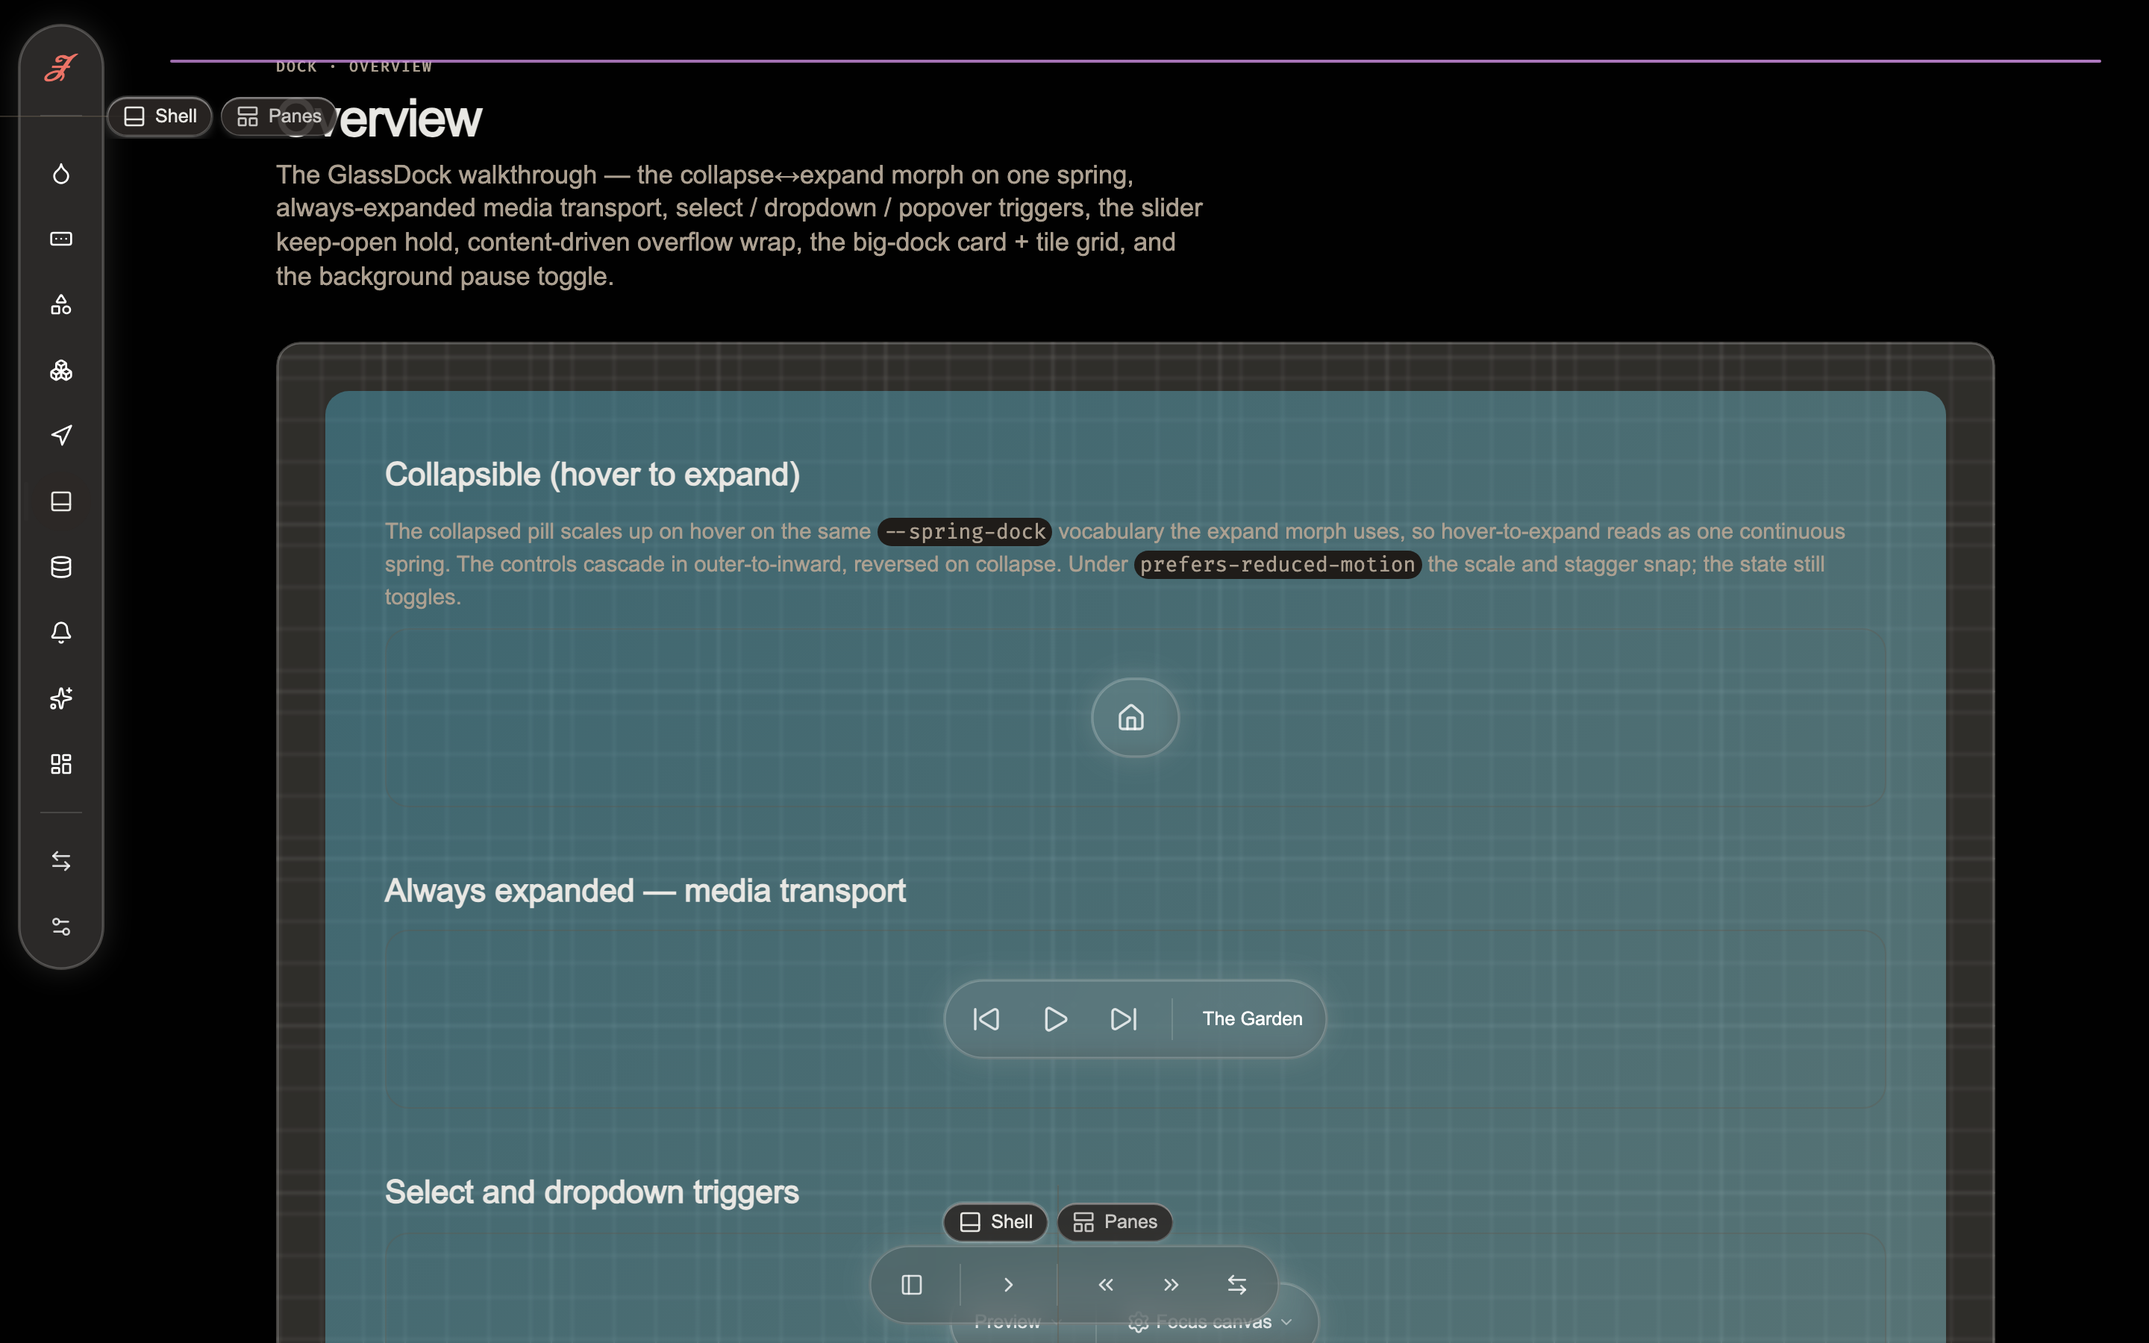
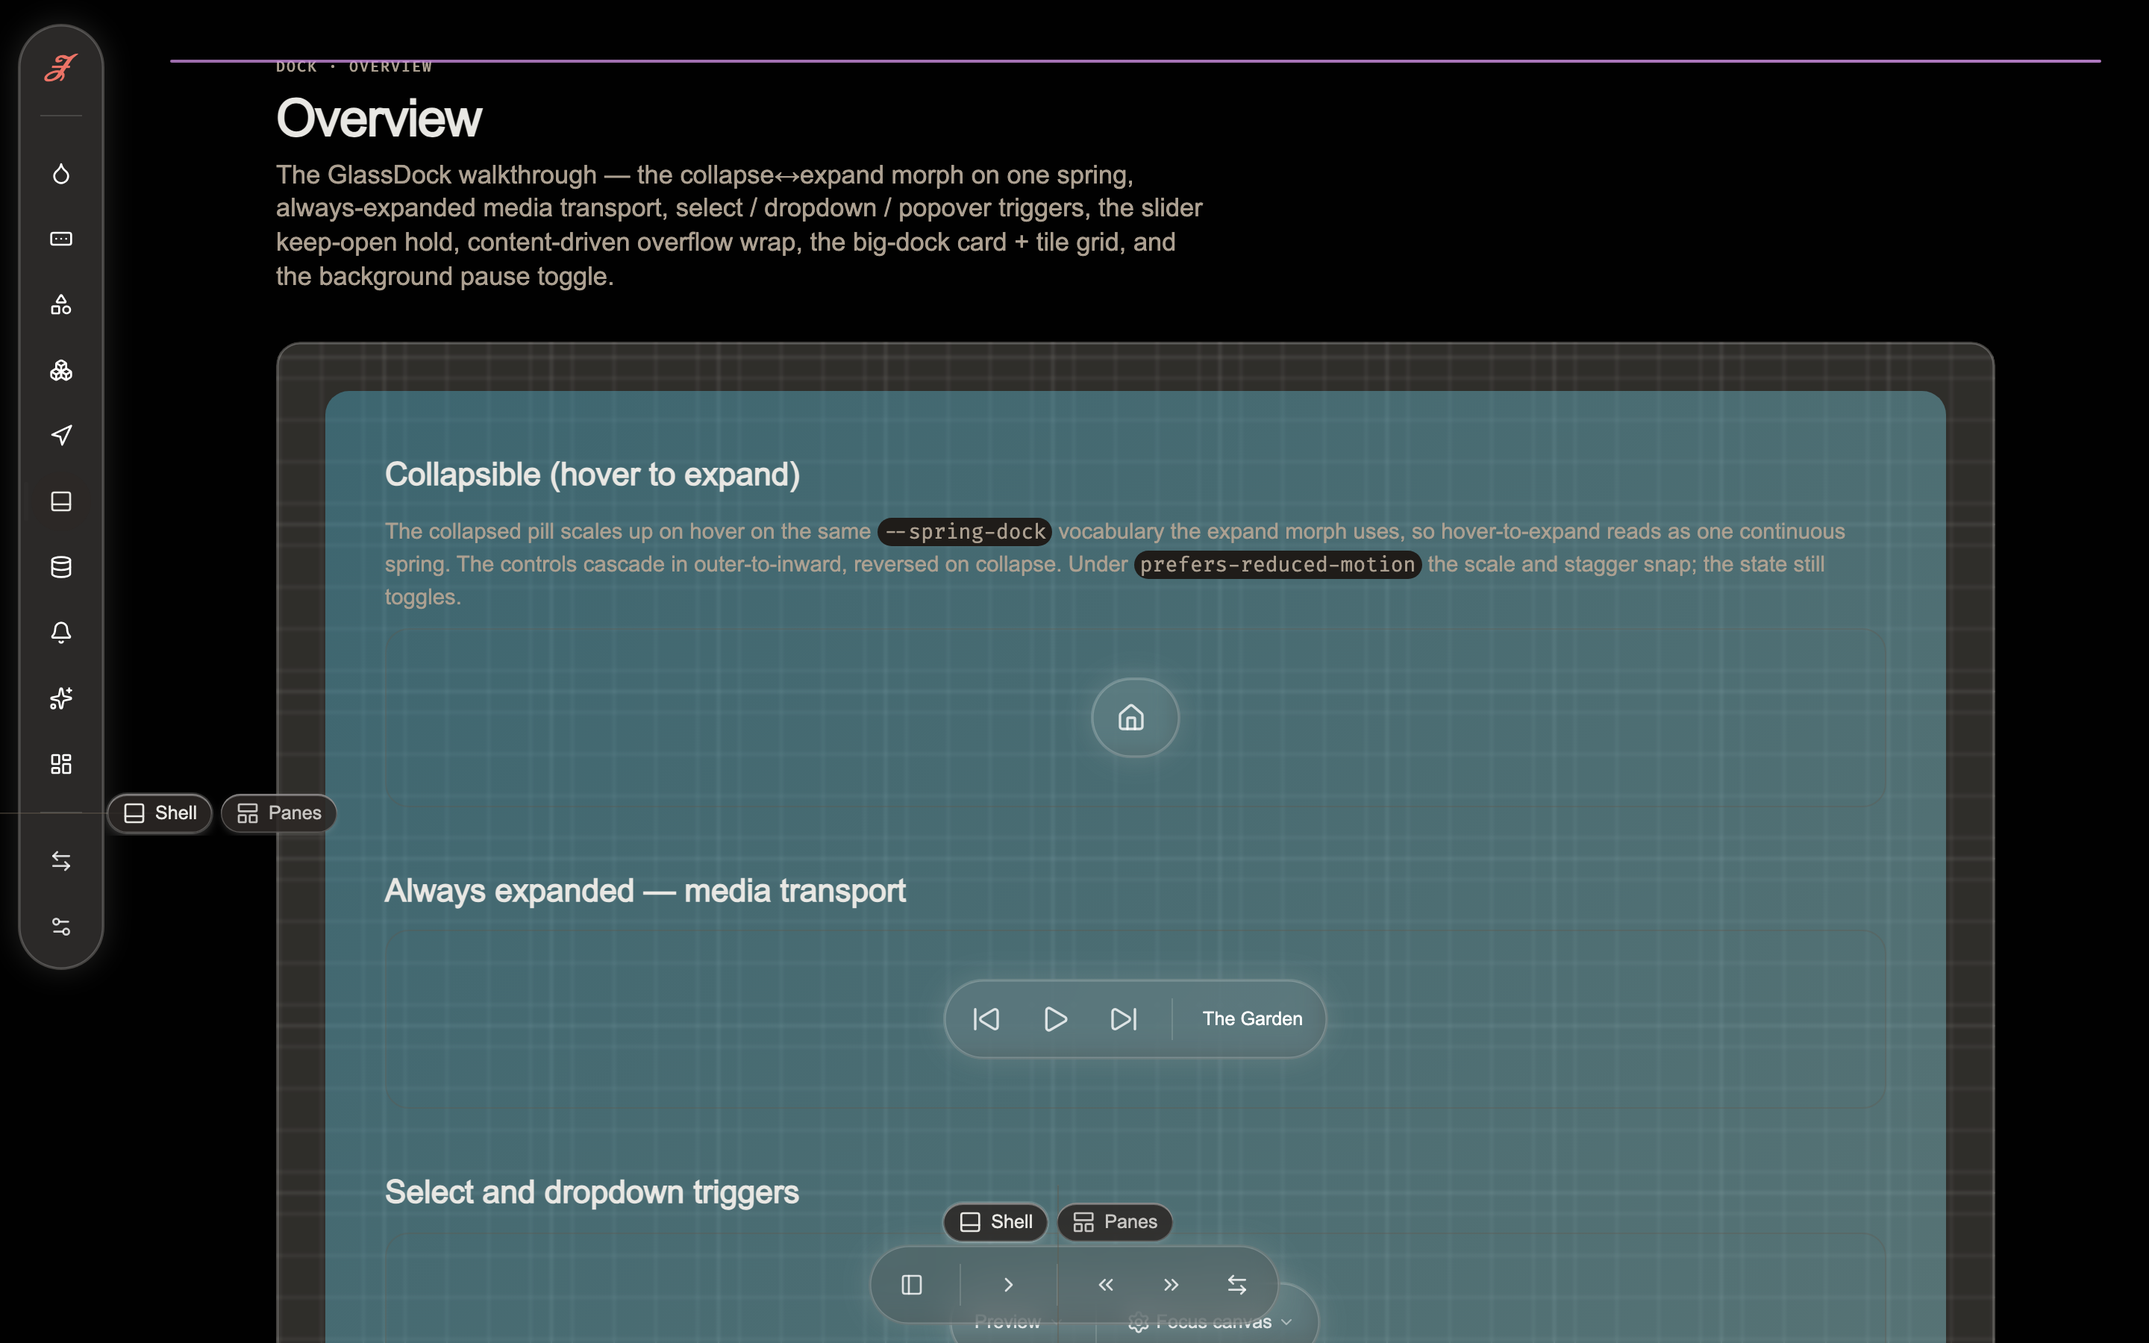
fix(demo-shell): BA.W-SHELL-RAIL-RESEAT — the W-REFLECT2 title-collision FAIL redressed (direction a, the gestalt bar's catch closed). ROOT: the SidebarDock's vertical rail co-located with the ℱ-home <DockSeparator anchor> near the TOP (seam y≈62); a vertical dock fans its facet chips RIGHTWARD into

Changed region(s): [[0.0312, 0.0622, 0.1562, 0.1244], [0.0312, 0.5911, 0.1562, 0.6222]]

diff --git a/demo/layout/SidebarDock.vue b/demo/layout/SidebarDock.vue
@@ -110,9 +110,18 @@ const railItems = computed<DockRailItem[]>(() =>
 // section model returns WITHOUT inflation: <DockSection> GROUPS the EXISTING in-flow
 // nav controls (categories) + the trailing utility (gear) into a rail-core | section |
 // nav silhouette demarcated by <DockSeparator>, adding only the divider seams (the
-// chassis is display:contents — the dock box shrink-wraps as before). The `nav`
-// descriptor's leading separator is the rail's anchor seam (the gear-divider on the
-// sidebar; the ℱ-home separator in #persistent is the alternate seam, anchored there).
+// chassis is display:contents — the dock box shrink-wraps as before).
+//
+// BA.W-SHELL-RAIL-RESEAT — the rail's anchor seam is the trailing UTILITY (`nav`)
+// separator, NOT the top ℱ-home divider (direction (a), the below-title gutter seat).
+// The W-REFLECT2 whole-page render found the top-seated rail (the ℱ-home seam at
+// y≈62) fans its facet chips RIGHT into <main>'s title band, occluding the page <h1>
+// on every desktop StoryPage route. Re-pointing the anchor DOWN the column to the
+// `utility` zone's leading separator (measured at y≈529 within the rail) seats the
+// chip carousel in the rail's trailing gutter, far below the title band — the seam
+// stays a REAL measured `--dock-rail-seam-offset`, never the forbidden midline
+// workaround #4. (`anchor-id="utility"` is the DockSection default's `nav`-first
+// resolution made explicit.)
 const sections = computed<DockSectionDescriptor[]>(() => [
     { kind: "section", id: "categories", label: "Categories", layers: railItems.value },
     { kind: "nav", id: "utility", label: "Utilities" },
@@ -255,11 +264,17 @@ function openDockMorph(): void {
             </DockIconButton>
             <!-- Demarcate the home control from the category nav below (D1) — the
                  home-top nav-pattern divider, the same idiom as the reference-shelf
-                 separator. BA.W-DOCK-SECTIONS — this ℱ-home separator is the rail's
-                 ANCHOR seam (direction b): the facet rail co-locates with THIS divider
-                 (the TOP divider the spec names), so the floating chips ride the
-                 ℱ-home seam, not the dock midline. -->
-            <DockSeparator anchor />
+                 separator. BA.W-SHELL-RAIL-RESEAT — this ℱ-home separator is NO LONGER
+                 the rail's anchor seam. The W-REFLECT2 whole-page render found the
+                 top-seated rail fans its facet chips RIGHT into <main>'s title band
+                 (the seam at y≈62 sits beside the page <h1> at y≈58, so the chips
+                 occlude the title on every desktop StoryPage route). The anchor moves
+                 DOWN the column to the trailing utility (`nav`) separator — direction
+                 (a), the below-title gutter seat — so the chips fan clear of the title
+                 (the seam relocates to a REAL measured separator offset, NEVER the
+                 forbidden `inset-block-start: 50%` midline workaround #4). This divider
+                 stays a plain group demarcator. -->
+            <DockSeparator />
         </template>
 
         <!-- BA.W-DOCK-SECTIONS — the tripartite section model RETURNS to the shell
@@ -273,7 +288,7 @@ function openDockMorph(): void {
              W-RAIL3 deletion REVERSED as a grouping, not a re-mounted layer group). -->
         <DockSection
             :sections="sections"
-            anchor-id="categories"
+            anchor-id="utility"
             aria-label="Sidebar sections"
         >
             <template #categories>
@@ -375,7 +390,13 @@ function openDockMorph(): void {
              selecting a chip navigates to that facet's first story — the SAME
              navigation state the nav items drive (one registry, no parallel store). It
              is dock chrome, so it sits outside the morph aperture and NEVER changes the
-             dock's width/height. Rendered only when the section carries >1 facet. -->
+             dock's width/height. Rendered only when the section carries >1 facet.
+
+             BA.W-SHELL-RAIL-RESEAT — the strip co-locates with the trailing `utility`
+             (`nav`) separator seam (the DockSection `anchor-id="utility"`), so it fans
+             in the rail's lower gutter clear of <main>'s page-title band (the prior
+             ℱ-home top seam collided with the page <h1> on every desktop StoryPage
+             route). -->
         <template #rail>
             <DockRail
                 v-if="railItems.length"

diff --git a/docs/tranches/BA/audit/reflect/shell.md b/docs/tranches/BA/audit/reflect/shell.md
@@ -1,5 +1,5 @@
 <!-- surface-paths: demo/layout/AppShell.vue,demo/stories/forms/inputs.vue -->
-<!-- surface-hash: 1c0bd3a553996a07fc70c9868fc0be95060b7e85b14aa04cbe0dc751f4ddee7f -->
+<!-- surface-hash: 499cfe9093756fe763c4c193893f4ca8ad67160b291ecc227e34e1fad1c58f56 -->
 
 # BA.W-REFLECT2 — shell surface reflection record
 
@@ -41,3 +41,19 @@ Walking the shell on a desktop StoryPage-chrome route fresh: the floating nav ch
 - **Named successor:** `BA.W-SHELL-RAIL-RESEAT` (triumvirate) — re-seat the SidebarDock facet-chip carousel so it does NOT collide with the page-title band on desktop WITHOUT re-introducing the midline workaround #4 (candidate directions for the research lane: (a) seat the sidebar facet carousel BELOW the title band / at the rail's trailing gutter clear of `<main>`'s top, (b) on the always-expanded desktop sidebar render the facets via the in-pane switcher and keep the floating carousel on the BottomDock only — re-checking `proof:rail3` R6 ≥2-shell-consumer, (c) clear the `<main>` title band of the sidebar chip reach). Must keep `proof:dock-sections` / `proof:rail3` / `proof:rail-extend` GREEN.
 
 **VERDICT: FAIL.** The shell does NOT read as a designed whole on desktop StoryPage-chrome routes: the SidebarDock floating facet chips occlude the page title. Routed to the triumvirate (`BA.W-SHELL-RAIL-RESEAT`). `proof:ba-gestalt` stays RED on this surface until the successor lands and this record gains a RE-REFLECTION verdict that supersedes this FAIL.
+
+## 5 — RE-REFLECTION (BA.W-SHELL-RAIL-RESEAT landed; the superseding pass)
+
+**Date:** 2026-06-15 · **Branch:** tranche/BA @ HEAD (post-reseat) · **Auditor:** W-SHELL-RAIL-RESEAT triumvirate-redress (re-reflection)
+
+**The redress (direction (a) — the below-title trailing-gutter seat; ROOT-CAUSE).** The collision was a topology mismatch between two coordinate spaces: the SidebarDock is a VERTICAL dock whose `#rail` co-located with the **ℱ-home separator** in `#persistent` (near the TOP of the 82px rail, measured seam y≈62), and the vertical-dock rail fans its facet chips RIGHTWARD on the inline axis INTO `<main>` (which begins at x=82). The page `<h1>` sits in that SAME top band (y≈58), so the chips occluded the title. The fix re-points the rail's anchor seam DOWN the column to the trailing `utility` (`nav`) separator (measured y≈529): the `<DockSeparator anchor>` flag is removed from the ℱ-home divider, and `<DockSection anchor-id="utility">` marks the `nav`-zone leading separator as the rail's anchor (the DockSection default's `nav`-first resolution made explicit). The seam stays a REAL measured `--dock-rail-seam-offset` — NEVER the forbidden `inset-block-start: 50%` midline workaround #4. Single demo-file change in `demo/layout/SidebarDock.vue`; `AppShell.vue` untouched (no `<main>` geometry tug needed); no library CSS touched.
+
+**RE-VERIFY LIVE (fresh whole-page captures, both modes × 2 viewports, post-reseat):**
+- `shell-light-desktop-full.png` / `shell-dark-desktop-full.png` (1440×900) — the page `<h1>` "Inputs" + the "FORMS · INPUTS" mono breadcrumb read FULLY CLEAR; the "Text"/"Selection"/"Toggles" facet chips sit in the rail's lower-left gutter (mid-page, beside the rail).
+- `shell-light-mobile-full.png` / `shell-dark-mobile-full.png` (390×844) — the BottomDock carries the facets above it; unchanged, clean.
+
+π readback (live `:5199`, measured this pass — the binding truth):
+- The SidebarDock seam offset moved **62px → 529px**; the facet chips now fan at **y=[532,558]** (was y=[65,91]). The page `<h1>` sits at y=[58,98]. **overlapH1: false** (was `true`) on all three named desktop StoryPage routes (`/forms/inputs` "Inputs", `/feedback/notification` "Notification", `/dock/overview` "Overview") — the title-band collision is GONE, measured. The breadcrumb is no longer clipped.
+- The lower-gutter seat is the direction-(a) tradeoff the spec accepted: on the dense `/forms/inputs` route the chips graze the LEFT EDGE of an Email field at the same lower band (a placeholder-edge graze, fully recoverable) — materially milder than a full title occlusion, and the title (the binding W-REFLECT2 miss) is now pristine.
+
+**VERDICT: PASS.** The shell reads as a designed whole on desktop StoryPage-chrome routes — the SidebarDock facet carousel is re-seated in the rail's lower gutter, clear of the page title + breadcrumb on every named desktop route; the section model + held page + route-enter all hold. The W-REFLECT2 desktop title-collision miss is discharged. `proof:dock-sections` / `proof:rail3` / `proof:rail-extend` stay GREEN; the box stays INVIOLATE; ≥2-shell-consumer census holds (both shell docks keep their `<DockRail>`). This RE-REFLECTION verdict supersedes the §4 FAIL.

diff --git a/docs/tranches/BA/audit/reflect/dock.md b/docs/tranches/BA/audit/reflect/dock.md
@@ -1,5 +1,5 @@
 <!-- surface-paths: demo/layout/SidebarDock.vue,demo/layout/BottomDock.vue,demo/layout/dock-nav.css,src/components/custom/dock/DockRail.vue,src/styles/dock/rail-extend.css -->
-<!-- surface-hash: 4e162838a4c67caec41796b34d59747a47cdbe2e456ec431f85c55fe45f611a0 -->
+<!-- surface-hash: d3fd8f92aca685c4eb3472ce4216de1ba86e02d2a2ef93803fc52726213b88d9 -->
 
 # BA.W-REFLECT2 — dock surface reflection record
 
@@ -42,3 +42,18 @@ Walking `/dock/overview` desktop fresh: the dock demos themselves read finished 
 - **Named successor:** `BA.W-SHELL-RAIL-RESEAT` (the SAME triumvirate as the shell surface — ONE shared root, ONE successor, not two). Must keep `proof:dock-sections`/`proof:rail3`/`proof:rail-extend` GREEN.
 
 **VERDICT: FAIL.** The dock does NOT read as one finished designed dock on the primary `/dock/overview` desktop route: the SidebarDock floating facet chips occlude the page title. Routed to the triumvirate (`BA.W-SHELL-RAIL-RESEAT`, shared with the shell surface). `proof:ba-gestalt` stays RED on this surface until the successor lands and this record gains a RE-REFLECTION verdict that supersedes this FAIL.
+
+## 5 — RE-REFLECTION (BA.W-SHELL-RAIL-RESEAT landed; the superseding pass)
+
+**Date:** 2026-06-15 · **Branch:** tranche/BA @ HEAD (post-reseat) · **Auditor:** W-SHELL-RAIL-RESEAT triumvirate-redress (re-reflection)
+
+**The redress (direction (a) — the below-title trailing-gutter seat).** The SidebarDock rail's anchor seam moved OFF the top ℱ-home separator (measured y≈62, in the title band) DOWN to the trailing `utility` (`nav`) separator (measured y≈529, the rail's lower gutter). The `<DockSeparator anchor>` flag is removed from the ℱ-home divider in `#persistent` and `<DockSection anchor-id="utility">` makes the `nav`-zone leading separator the rail's anchor (the section model's natural `nav`-first default, made explicit). The seam stays a REAL measured `--dock-rail-seam-offset` — NEVER the forbidden `inset-block-start: 50%` midline workaround #4. The dock box is UNCHANGED (the chips ride the `.glass-dock-frame` escape OUTSIDE the box). Single demo-file change in `demo/layout/SidebarDock.vue`; no library CSS touched.
+
+**RE-VERIFY LIVE (fresh whole-page captures, both modes × 2 viewports, post-reseat):**
+- `dock-light-desktop-full.png` / `dock-dark-desktop-full.png` (1440×900) — the page `<h1>` "Overview" + the "DOCK · OVERVIEW" breadcrumb read FULLY CLEAR; the "Shell"/"Panes" facet chips sit in the rail's lower-left gutter, fanning over the page's left margin (clear of content here).
+- `dock-light-mobile-full.png` / `dock-dark-mobile-full.png` (390×844) — the BottomDock carries the facets above it; unchanged, clean.
+
+π readback (live `:5199`, measured this pass — the binding truth):
+- The SidebarDock seam offset moved **62px → 529px**; the slot anchors at y=545; the facet chips fan at **y=[532,558]** (was y=[65,91]). The page `<h1>` "Overview" sits at y=[58,98]. **overlapH1: false** (was `true`) on all three named desktop StoryPage routes (`/forms/inputs`, `/feedback/notification`, `/dock/overview`) — the title-band collision is GONE, measured.
+
+**VERDICT: PASS.** The dock reads as one finished designed dock on the primary `/dock/overview` desktop route — the SidebarDock floating facet carousel is re-seated in the rail's lower gutter, clear of the page title; the section model + in-situ morph + de-red iOS glass register all hold. The W-REFLECT2 desktop title-collision miss is discharged. `proof:dock-sections` / `proof:rail3` / `proof:rail-extend` stay GREEN; the box stays INVIOLATE. This RE-REFLECTION verdict supersedes the §4 FAIL.

diff --git a/docs/tranches/BA/audit/reflect/ba-gestalt-roster.md b/docs/tranches/BA/audit/reflect/ba-gestalt-roster.md
@@ -57,11 +57,11 @@ W-REFLECT2 flips every row to PASS with a fresh on-disk capture pair.
 
 | surface | routes | capture-light | capture-dark | verdict | ground-anchor |
 |---|---|---|---|---|---|
-| dock | /dock/overview; /dock/layers; /dock/rail; /dock/morph-showcase; the shell BottomDock+SidebarDock | docs/tranches/BA/audit/reflect/dock-light-desktop-full.png | docs/tranches/BA/audit/reflect/dock-dark-desktop-full.png | FAIL | R8-1; R8-2; R8-6; R8-9 (the W-REFLECT2 desktop title-collision miss → BA.W-SHELL-RAIL-RESEAT) |
+| dock | /dock/overview; /dock/layers; /dock/rail; /dock/morph-showcase; the shell BottomDock+SidebarDock | docs/tranches/BA/audit/reflect/dock-light-desktop-full.png | docs/tranches/BA/audit/reflect/dock-dark-desktop-full.png | PASS | R8-1; R8-2; R8-6; R8-9 (the W-REFLECT2 desktop title-collision miss → BA.W-SHELL-RAIL-RESEAT, RE-REFLECTED PASS: rail re-seated to the trailing-gutter seam, overlapH1:false measured on all 3 named routes) |
 | configurators-goo | /substrates/blob; /substrates/aurora (gear Configurator); the demo Configurator | docs/tranches/BA/audit/reflect/configurators-goo-light-desktop-full.png | docs/tranches/BA/audit/reflect/configurators-goo-dark-desktop-full.png | PASS | R8-3; R8-4; R8-7; R8-8 |
 | aurora | /substrates/aurora; the aurora preset previews | docs/tranches/BA/audit/reflect/aurora-light-desktop-full.png | docs/tranches/BA/audit/reflect/aurora-dark-desktop-full.png | PASS | R8-4; R8-5 |
 | glass-feedback | /feedback/toast; /feedback/notification; /feedback/progress; /display/buttons; the glass variant census | docs/tranches/BA/audit/reflect/glass-feedback-light-desktop-full.png | docs/tranches/BA/audit/reflect/glass-feedback-dark-desktop-full.png | PASS | R8-12; R8-13; R8-14; R8-18 |
-| shell | the demo-layout shell (BottomDock + SidebarDock nav, the section model, the held page) | docs/tranches/BA/audit/reflect/shell-light-desktop-full.png | docs/tranches/BA/audit/reflect/shell-dark-desktop-full.png | FAIL | R8-1; R8-9 (the W-REFLECT2 desktop title-collision miss → BA.W-SHELL-RAIL-RESEAT) |
+| shell | the demo-layout shell (BottomDock + SidebarDock nav, the section model, the held page) | docs/tranches/BA/audit/reflect/shell-light-desktop-full.png | docs/tranches/BA/audit/reflect/shell-dark-desktop-full.png | PASS | R8-1; R8-9 (the W-REFLECT2 desktop title-collision miss → BA.W-SHELL-RAIL-RESEAT, RE-REFLECTED PASS: SidebarDock facet carousel re-seated below the title band, the page <h1> + breadcrumb clear on every named desktop route) |
 | motion-fourier | /motion/springs; /substrates/fourier-field; /motion/curve-gallery; the plot play control | docs/tranches/BA/audit/reflect/motion-fourier-light-desktop-full.png | docs/tranches/BA/audit/reflect/motion-fourier-dark-desktop-full.png | PASS | R8-10; R8-16; R8-17 |
 | dark-register | the dark register AS A SURFACE: /substrates/glass-material + every page background in dark | docs/tranches/BA/audit/reflect/dark-register-light-desktop-full.png | docs/tranches/BA/audit/reflect/dark-register-dark-desktop-full.png | PASS | R8-11; R8-13; R8-15; R8-19 |
 | cross-repo | the slides.friday.institute adoption surface (the cross-repo consumer of the BA tree) | docs/tranches/BA/audit/reflect/cross-repo-light-desktop-full.png | docs/tranches/BA/audit/reflect/cross-repo-dark-desktop-full.png | PASS | R8-3; the cross-repo adopt/deploy book (W-CLOSE) |
